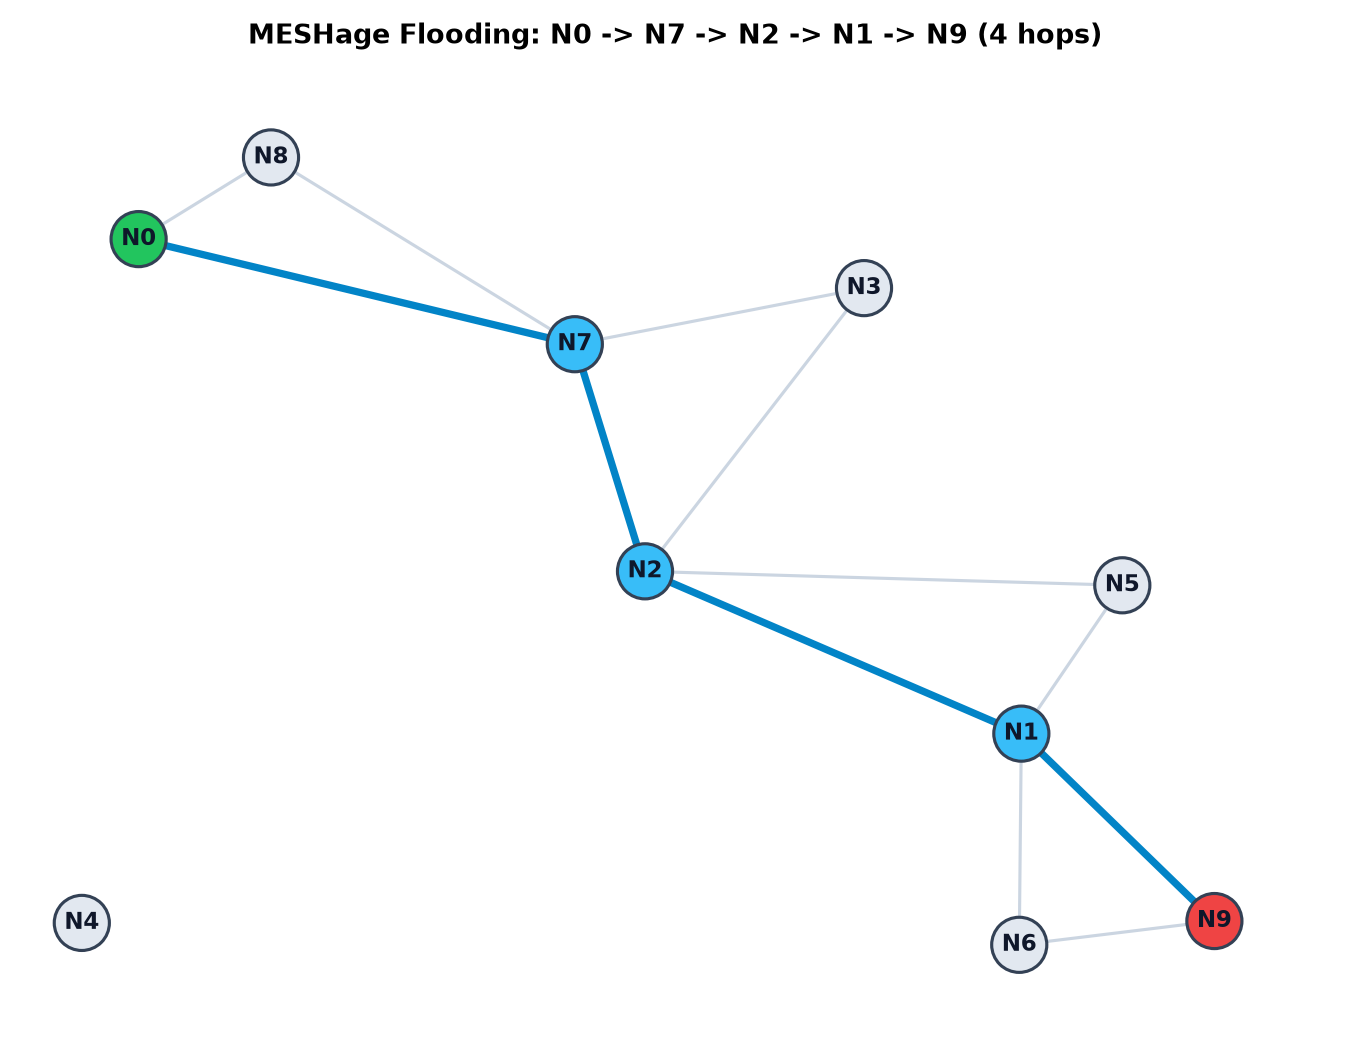
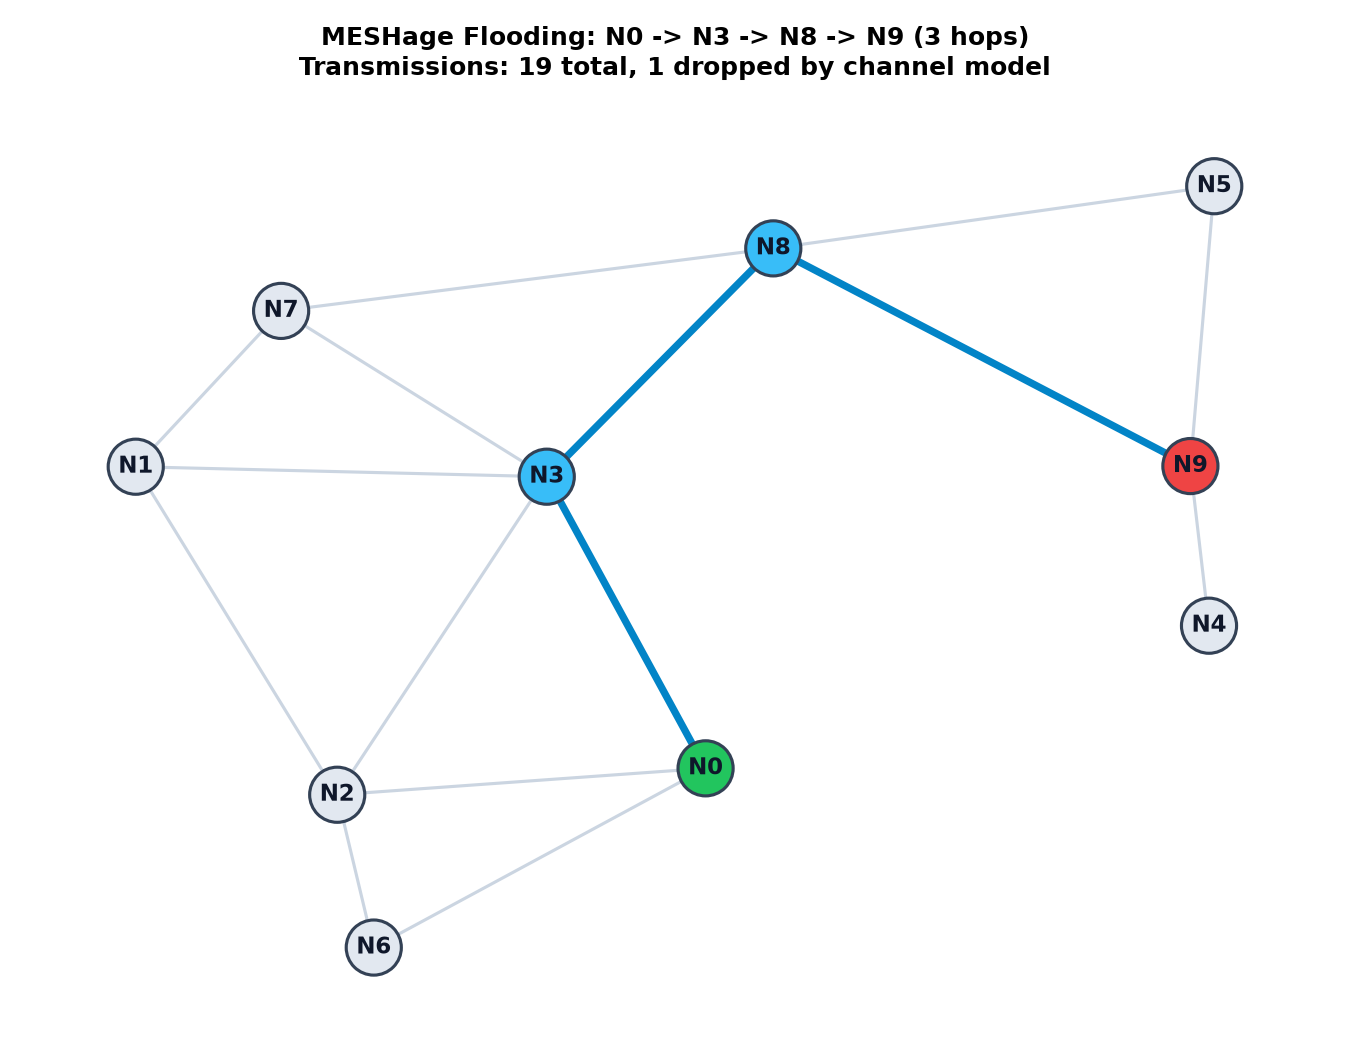
packet loss from channel in network sim

diff --git a/sim/network.py b/sim/network.py
@@ -3,9 +3,11 @@ network simulation for meshage
 """
 import copy
 import math
+import random
 from typing import Dict, List, Optional, Tuple
 from core.message import Message
 from core.router import FloodingRouter
+from sim.channel import WirelessChannel
 
 
 class SimNode:
@@ -18,32 +20,50 @@ class SimNode:
 
 
 class Network:
-    def __init__(self, transmission_range: float = 35.0):
+    def __init__(
+        self,
+        transmission_range: float = 40.0,
+        channel: Optional[WirelessChannel] = None,
+        seed: Optional[int] = 42,
+    ):
         self.transmission_range = transmission_range
+        self.channel = channel if channel is not None else WirelessChannel()
+        self.seed = seed
+        self.rng = random.Random(seed)
         self.nodes: Dict[str, SimNode] = {}
         # (target_node, message, from_node)
         self.in_flight: List[Tuple[str, Message, Optional[str]]] = []
         self.time_step: int = 0
+        self.total_transmissions: int = 0
+        self.dropped_transmissions: int = 0
+        self.successful_transmissions: int = 0
+
+    def set_seed(self, seed: Optional[int]) -> None:
+        self.seed = seed
+        self.rng = random.Random(seed)
 
     def add_node(self, name: str, x: float, y: float) -> SimNode:
         node = SimNode(name, x, y)
         self.nodes[name] = node
         return node
 
+    def distance(self, name1: str, name2: str) -> float:
+        n1 = self.nodes[name1]
+        n2 = self.nodes[name2]
+        return math.hypot(n1.x - n2.x, n1.y - n2.y)
+
     def build_links(self) -> None:
-        # connect nodes within transmission range
+        # connect nodes within candidate transmission range
         for node in self.nodes.values():
             node.neighbors = []
 
         names = list(self.nodes.keys())
         for i in range(len(names)):
             for j in range(i + 1, len(names)):
-                n1 = self.nodes[names[i]]
-                n2 = self.nodes[names[j]]
-                dist = math.hypot(n1.x - n2.x, n1.y - n2.y)
+                dist = self.distance(names[i], names[j])
                 if dist <= self.transmission_range:
-                    n1.neighbors.append(n2.name)
-                    n2.neighbors.append(n1.name)
+                    self.nodes[names[i]].neighbors.append(names[j])
+                    self.nodes[names[j]].neighbors.append(names[i])
 
     def send_message(
         self,
@@ -67,7 +87,7 @@ class Network:
         return msg
 
     def step(self) -> int:
-        # move messages forward by one hop
+        # move messages forward by one hop with wireless channel model
         if not self.in_flight:
             return 0
 
@@ -77,6 +97,17 @@ class Network:
         for target_name, msg, from_node in current_batch:
             if target_name not in self.nodes:
                 continue
+
+            # check packet loss over wireless channel
+            if from_node and from_node in self.nodes:
+                dist = self.distance(from_node, target_name)
+                self.total_transmissions += 1
+                succeeded = self.channel.transmits_successfully(dist, rng=self.rng)
+                if not succeeded:
+                    self.dropped_transmissions += 1
+                    continue
+                self.successful_transmissions += 1
+
             target_node = self.nodes[target_name]
             next_hops = target_node.router.handle(msg, from_node=from_node)
             for nxt in next_hops:

diff --git a/sim/demo.py b/sim/demo.py
@@ -1,27 +1,29 @@
 """
-demo script for flooding routing in meshage
+demo script for flooding routing with wireless channel model
 """
 import os
 import random
 import sys
 
-# ensure project root is in python path
+# ensure project root is on sys.path
 sys.path.insert(0, os.path.abspath(os.path.join(os.path.dirname(__file__), "..")))
 
 import matplotlib.pyplot as plt
 import networkx as nx
+from sim.channel import WirelessChannel
 from sim.network import Network
 
 
 def main():
-    # use seed for repeatable connected topology
-    seed = 1
+    # seed 30 demonstrates multi-hop delivery with realistic packet drops
+    seed = 30
     if len(sys.argv) > 1 and sys.argv[1].isdigit():
         seed = int(sys.argv[1])
     random.seed(seed)
 
     # 1. create 10 random nodes
-    net = Network(transmission_range=32.0)
+    channel = WirelessChannel(tx_power_dbm=14.0, pl_d0=40.0, n=3.0, sigma=4.0, sensitivity_dbm=-85.0)
+    net = Network(transmission_range=38.0, channel=channel, seed=seed)
     for i in range(10):
         net.add_node(f"N{i}", random.uniform(10, 90), random.uniform(10, 90))
     net.build_links()
@@ -37,17 +39,25 @@ def main():
     # check delivered message at destination
     delivered = net.nodes[last_node].router.delivered_messages
     if not delivered:
-        print(f"Message did not reach {last_node}")
+        print(f"Message dropped: could not reach {last_node} through noisy channel.")
+        print(
+            f"Transmissions: {net.total_transmissions} total "
+            f"({net.successful_transmissions} succeeded, {net.dropped_transmissions} dropped)"
+        )
         return
 
     msg = delivered[0]
     path = msg.path
     hop_count = len(path) - 1
 
-    # 3. print path and hop count
+    # 3. print path, hop count and channel statistics
     print("Message reached destination successfully!")
     print(f"Path: {' -> '.join(path)}")
     print(f"Hop count: {hop_count}")
+    print(
+        f"Transmissions: {net.total_transmissions} total "
+        f"({net.successful_transmissions} succeeded, {net.dropped_transmissions} dropped by channel noise)"
+    )
 
     # 4. draw the graph with networkx and matplotlib
     g = nx.Graph()
@@ -110,8 +120,9 @@ def main():
     )
 
     plt.title(
-        f"MESHage Flooding: {' -> '.join(path)} ({hop_count} hops)",
-        fontsize=13,
+        f"MESHage Flooding: {' -> '.join(path)} ({hop_count} hops)\n"
+        f"Transmissions: {net.total_transmissions} total, {net.dropped_transmissions} dropped by channel model",
+        fontsize=12,
         fontweight="bold",
         pad=15,
     )

diff --git a/sim/__init__.py b/sim/__init__.py
@@ -2,5 +2,6 @@
 meshage simulation package
 """
 from sim.network import Network, SimNode
+from sim.channel import WirelessChannel
 
-__all__ = ["Network", "SimNode"]
+__all__ = ["Network", "SimNode", "WirelessChannel"]
